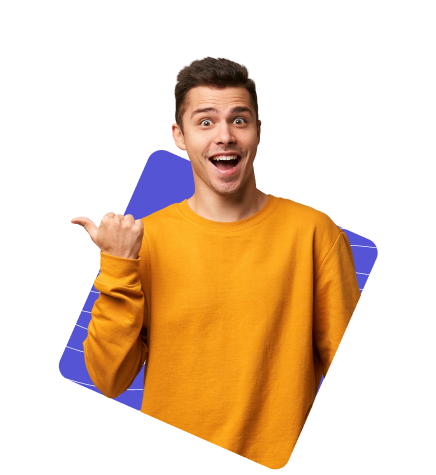
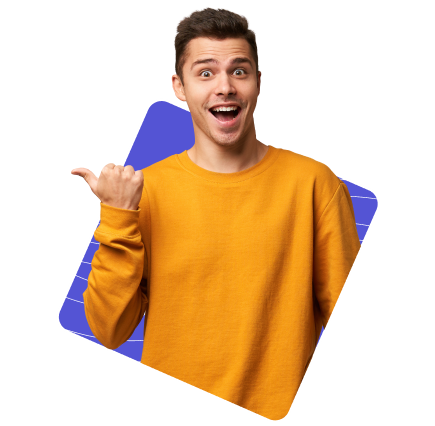
update: hero section complete

diff --git a/assets/css/main.css b/assets/css/main.css
@@ -82,6 +82,10 @@ ol {
   list-style: none;
 }
 
+section {
+  padding: 50px 0;
+}
+
 .container {
   max-width: 1200px;
   margin: 0 auto;
@@ -91,6 +95,7 @@ ol {
 @media (max-width: 480px) {
   .container {
     max-width: 100%;
+    padding: 0 30px;
   }
 }
 
@@ -101,8 +106,16 @@ ol {
   line-height: 18px;
   color: #FFFFFF;
   background-color: #5454D4;
-  padding: 10px 15px;
+  padding: 10px 20px;
   border-radius: 5px;
+  border: 2px solid transparent;
+  -webkit-transition: all .3s ease;
+  transition: all .3s ease;
+}
+
+.btn:hover {
+  background-color: transparent;
+  border: 2px solid #ffffff;
 }
 
 .navbar {
@@ -118,11 +131,128 @@ ol {
           justify-content: space-between;
 }
 
+@media (max-width: 480px) {
+  .navbar__logo {
+    -webkit-box-flex: 0;
+        -ms-flex: 0 0 50%;
+            flex: 0 0 50%;
+  }
+}
+
+@media (max-width: 480px) {
+  .navbar__menu {
+    -webkit-box-flex: 0;
+        -ms-flex: 0 0 50%;
+            flex: 0 0 50%;
+  }
+}
+
 .navbar__menu ul li {
   display: inline-block;
   padding: 0 15px;
 }
 
+@media (max-width: 480px) {
+  .navbar__menu ul li {
+    display: block;
+  }
+}
+
+.navbar__menu ul li a {
+  -webkit-transition: all .3s ease;
+  transition: all .3s ease;
+}
+
 .navbar__menu ul li a:active, .navbar__menu ul li a:hover {
   color: #5454D4;
+}
+
+@media (max-width: 480px) {
+  .navbar__btn {
+    display: none;
+  }
+}
+
+.navbar__btn a.btn {
+  background-color: transparent;
+  border: 2px solid #fff;
+  -webkit-transition: all .3s ease;
+  transition: all .3s ease;
+}
+
+.navbar__btn a.btn:hover {
+  background-color: #5454D4;
+  border: 2px solid #5454D4;
+}
+
+.hero {
+  display: -webkit-box;
+  display: -ms-flexbox;
+  display: flex;
+  -webkit-box-pack: justify;
+      -ms-flex-pack: justify;
+          justify-content: space-between;
+}
+
+@media (max-width: 480px) {
+  .hero {
+    -ms-flex-wrap: wrap;
+        flex-wrap: wrap;
+  }
+}
+
+.hero__left {
+  padding-top: 30px;
+  padding-right: 150px;
+  -webkit-box-flex: 0;
+      -ms-flex: 0 0 45%;
+          flex: 0 0 45%;
+}
+
+@media (max-width: 480px) {
+  .hero__left {
+    -webkit-box-flex: 0;
+        -ms-flex: 0 0 100%;
+            flex: 0 0 100%;
+    padding-right: 15px;
+  }
+}
+
+@media (max-width: 480px) {
+  .hero__left h1 {
+    font-size: 42px;
+    line-height: 63px;
+  }
+}
+
+.hero__left p {
+  margin: 20px 0;
+}
+
+@media (max-width: 480px) {
+  .hero__left p {
+    font-size: 16px;
+    line-height: 24px;
+  }
+}
+
+.hero__right {
+  -webkit-box-flex: 0;
+      -ms-flex: 0 0 55%;
+          flex: 0 0 55%;
+  position: relative;
+}
+
+@media (max-width: 480px) {
+  .hero__right {
+    -webkit-box-flex: 0;
+        -ms-flex: 0 0 100%;
+            flex: 0 0 100%;
+    margin-top: 50px;
+  }
+}
+
+.hero__right img {
+  width: 100%;
+  position: relative;
 }

diff --git a/assets/scss/layout/_header.scss b/assets/scss/layout/_header.scss
@@ -3,22 +3,46 @@
     display: flex;
     align-items: center;
     justify-content: space-between;
+    &__logo{
+        @include max(480px){
+            flex: 0 0 50%;
+        }
+    }
     &__menu{
+        @include max(480px){
+            flex: 0 0 50%;
+        }
         ul{
+            @include max(480px){
+                // display: none;
+            }   
             li{
             
                 display: inline-block;
                 padding: 0 15px;
-                // &:first-child{
-                //     a{
-                //         color: #5454D4;  
-                //     }
-                // }
+                @include max(480px){
+                    display: block;
+                }
               a{
+                transition: all .3s ease;
                   &:active, &:hover{
                       color: #5454D4;
                   }
               }
+            }
+        }
+    }
+    &__btn{
+        @include max(480px){
+            display: none;
+        }
+        a.btn{
+            background-color: transparent;
+            border: 2px solid #fff;
+            transition:all .3s ease;
+            &:hover{
+                background-color: #5454D4;
+                border: 2px solid #5454D4;
             }
         }
     }

diff --git a/index.html b/index.html
@@ -34,13 +34,16 @@
 			<!-- Hero section  -->
 			<section class="hero-section">
 				<div class="container">
-					<div class="hero-left">
-						<h1>Build Your Awesome Platform</h1>
-						<p>Enver studio is a digital studio that offers several services such as UI/UX Design to developers, we will provide the best service for those of you who use our services.</p>
-						<a class="btn" href="#">Our Services</a>
-					</div>
-					<div class="hero-right">
-						<img src="assets/images/person.png" alt="">
+					<div class="hero">
+						<div class="hero__left">
+							<h1>Build Your <br> Awesome <br> Platform</h1>
+							<p>Enver studio is a digital studio that offers several services such as UI/UX Design to developers, we will provide the best service for those of you who use our services.</p>
+							<a class="btn" href="#">Our Services <img src="assets/images/icon/Icon.svg" alt=""></a>
+						</div>
+						<div class="hero__right">
+							<img src="assets/images/person.png" alt="">
+							<!-- <img class="hero__right-bg" src="assets/images/person-rectangle.png" alt="" >  -->
+						</div>
 					</div>
 				</div>
 			</section>

diff --git a/assets/scss/layout/_hero.scss b/assets/scss/layout/_hero.scss
@@ -1,0 +1,44 @@
+.hero{
+    display: flex;
+    justify-content: space-between;
+    @include max(480px){
+        flex-wrap:wrap;
+    }
+    &__left{
+        padding-top: 30px;
+        padding-right: 150px;
+        flex: 0 0 45%;
+        @include max(480px){
+            flex: 0 0 100%;
+            padding-right: 15px;
+        }
+        h1{
+            @include max(480px){
+                font-size: 42px;
+                line-height: 63px;
+            } 
+        }
+        p{
+            margin: 20px 0;
+            @include max(480px){
+                font-size: 16px;
+                line-height: 24px;
+            } 
+            
+        }
+    }
+    &__right{
+        flex:0 0 55%;
+        @include max(480px){
+            flex: 0 0 100%;
+            margin-top: 50px;
+        }
+        position: relative;
+        img{
+            width: 100%;
+            position: relative;
+            
+        }
+        
+    }
+}

diff --git a/assets/scss/base/_reset.scss b/assets/scss/base/_reset.scss
@@ -59,6 +59,7 @@ a {
 	}
 }
 img {
+	
 	max-width: 100%;
 	object-fit: cover;
 }
@@ -78,23 +79,17 @@ ul,
 ol {
 	list-style: none;
 }
+section{
+	padding: 50px 0;
+}
 .container {
 	max-width: 1200px;
 	margin: 0 auto;
 	padding: 0 15px;
 	@include max(480px) {
 		max-width: 100%;
+		padding: 0 30px;
 	}
 	
 }
 
-.btn{
-	font-family: 'Nunito Sans', sans-serif;
-	font-weight: bold;
-	font-size: 14px;
-	line-height: 18px;
-	color: #FFFFFF;
-	background-color:  #5454D4;
-	padding: 10px 15px;
-	border-radius: 5px;
-}

diff --git a/assets/scss/components/_btn.scss b/assets/scss/components/_btn.scss
@@ -1,0 +1,16 @@
+.btn{
+	font-family: 'Nunito Sans', sans-serif;
+	font-weight: bold;
+	font-size: 14px;
+	line-height: 18px;
+	color: #FFFFFF;
+	background-color:  #5454D4;
+	padding: 10px 20px;
+	border-radius: 5px;
+	border: 2px solid transparent;
+	transition: all .3s ease;
+	&:hover{
+		background-color: transparent;
+		border: 2px solid #ffffff;
+	}
+}

diff --git a/assets/scss/main.scss b/assets/scss/main.scss
@@ -10,6 +10,7 @@
 
 // layouts
 @import 'layout/header';
+@import 'layout/hero';
 @import 'layout/about';
 @import 'layout/footer';
 // @import 'layout/responsive';
